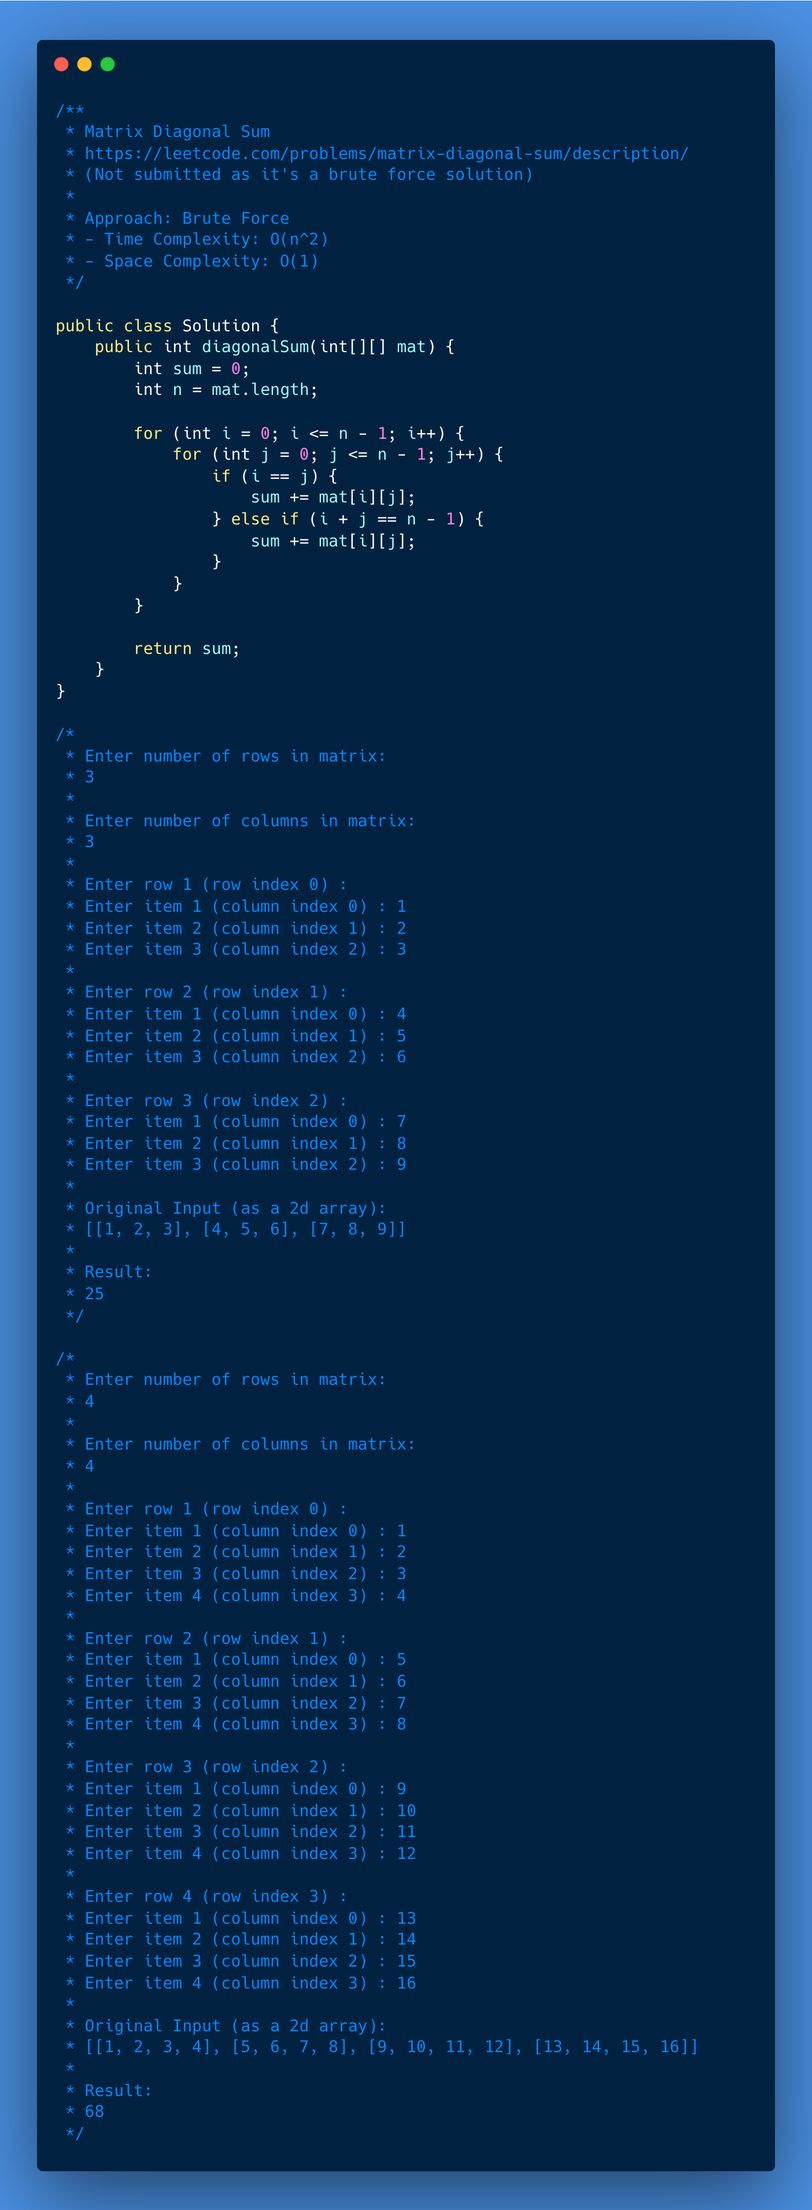
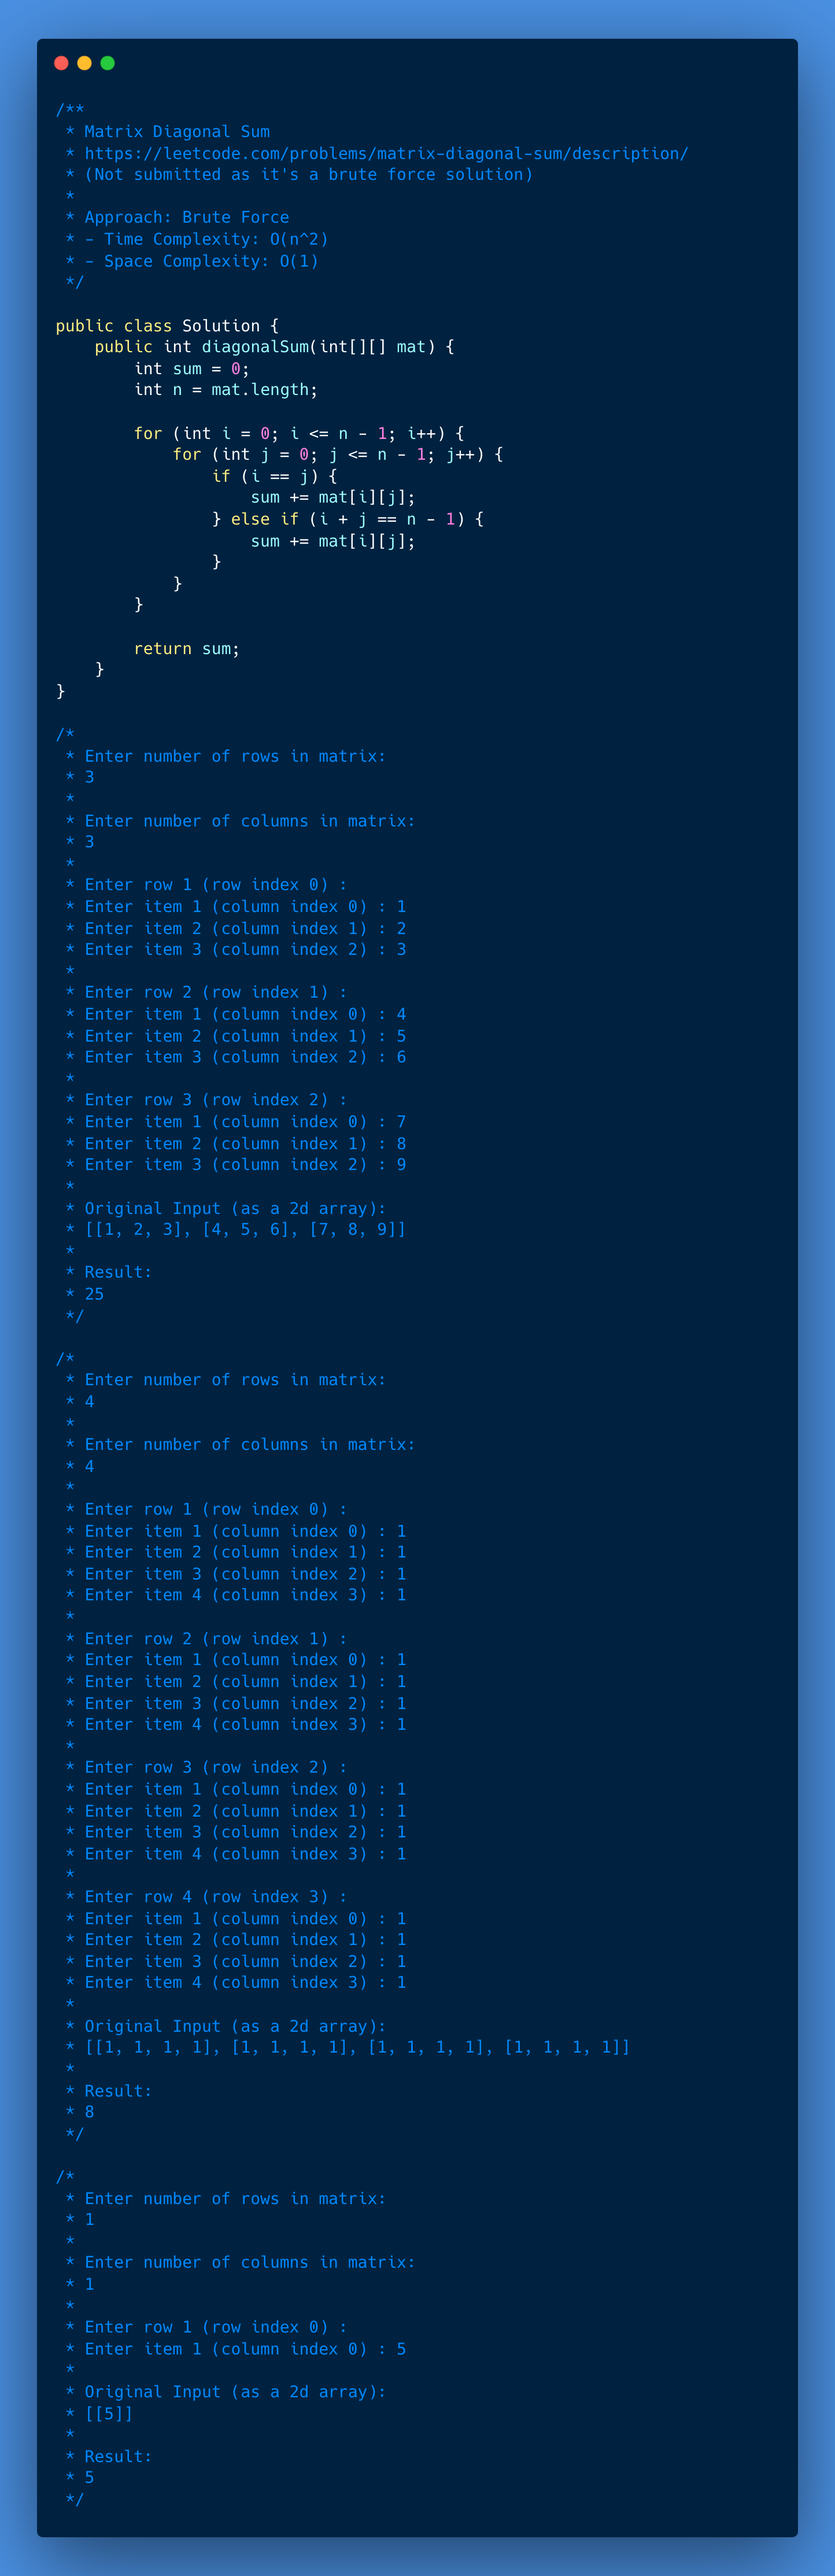
Solve Problem: Matrix Diagonal Sum

diff --git a/062-matrix-diagonal-sum/002-solution/Main.java b/062-matrix-diagonal-sum/002-solution/Main.java
@@ -1,0 +1,42 @@
+import java.util.*;
+
+public class Main {
+    public static void main(String[] args) {
+        Scanner sc = new Scanner(System.in);
+
+        // Input
+        System.out.println("Enter number of rows in matrix: ");
+        int x = sc.nextInt();
+
+        System.out.println();
+        System.out.println("Enter number of columns in matrix: ");
+        int y = sc.nextInt();
+
+        int[][] matrix = new int[x][y];
+
+        for (int i = 0; i <= x - 1; i++) {
+            System.out.println();
+            System.out.println("Enter row " + (i + 1) + " (row index " + i + ") : ");
+            for (int j = 0; j <= y - 1; j++) {
+                System.out.print("Enter item " + (j + 1) + " (column index " + j + ") : ");
+                matrix[i][j] = sc.nextInt();
+            }
+        }
+
+        // Input Log before solution is applied
+        System.out.println();
+        System.out.println("Original Input (as a 2d array):");
+        System.out.println(Arrays.deepToString(matrix));
+
+        // Solution
+        Solution solution = new Solution();
+        int result = solution.diagonalSum(matrix);
+
+        // Output
+        System.out.println();
+        System.out.println("Result:");
+        System.out.println(result);
+
+        sc.close();
+    }
+}

diff --git a/062-matrix-diagonal-sum/002-solution/Solution.java b/062-matrix-diagonal-sum/002-solution/Solution.java
@@ -1,10 +1,9 @@
 /**
  * Matrix Diagonal Sum
  * https://leetcode.com/problems/matrix-diagonal-sum/description/
- * (Not submitted as it's a brute force solution)
  * 
- * Approach: Brute Force
- * - Time Complexity: O(n^2)
+ * Approach: Linear Scan (Optimized)
+ * - Time Complexity: O(n)
  * - Space Complexity: O(1)
  */
 
@@ -14,12 +13,10 @@ public class Solution {
         int n = mat.length;
 
         for (int i = 0; i <= n - 1; i++) {
-            for (int j = 0; j <= n - 1; j++) {
-                if (i == j) {
-                    sum += mat[i][j];
-                } else if (i + j == n - 1) {
-                    sum += mat[i][j];
-                }
+            sum += mat[i][i];
+
+            if (i != n - 1 - i) {
+                sum += mat[i][n - 1 - i];
             }
         }
 
